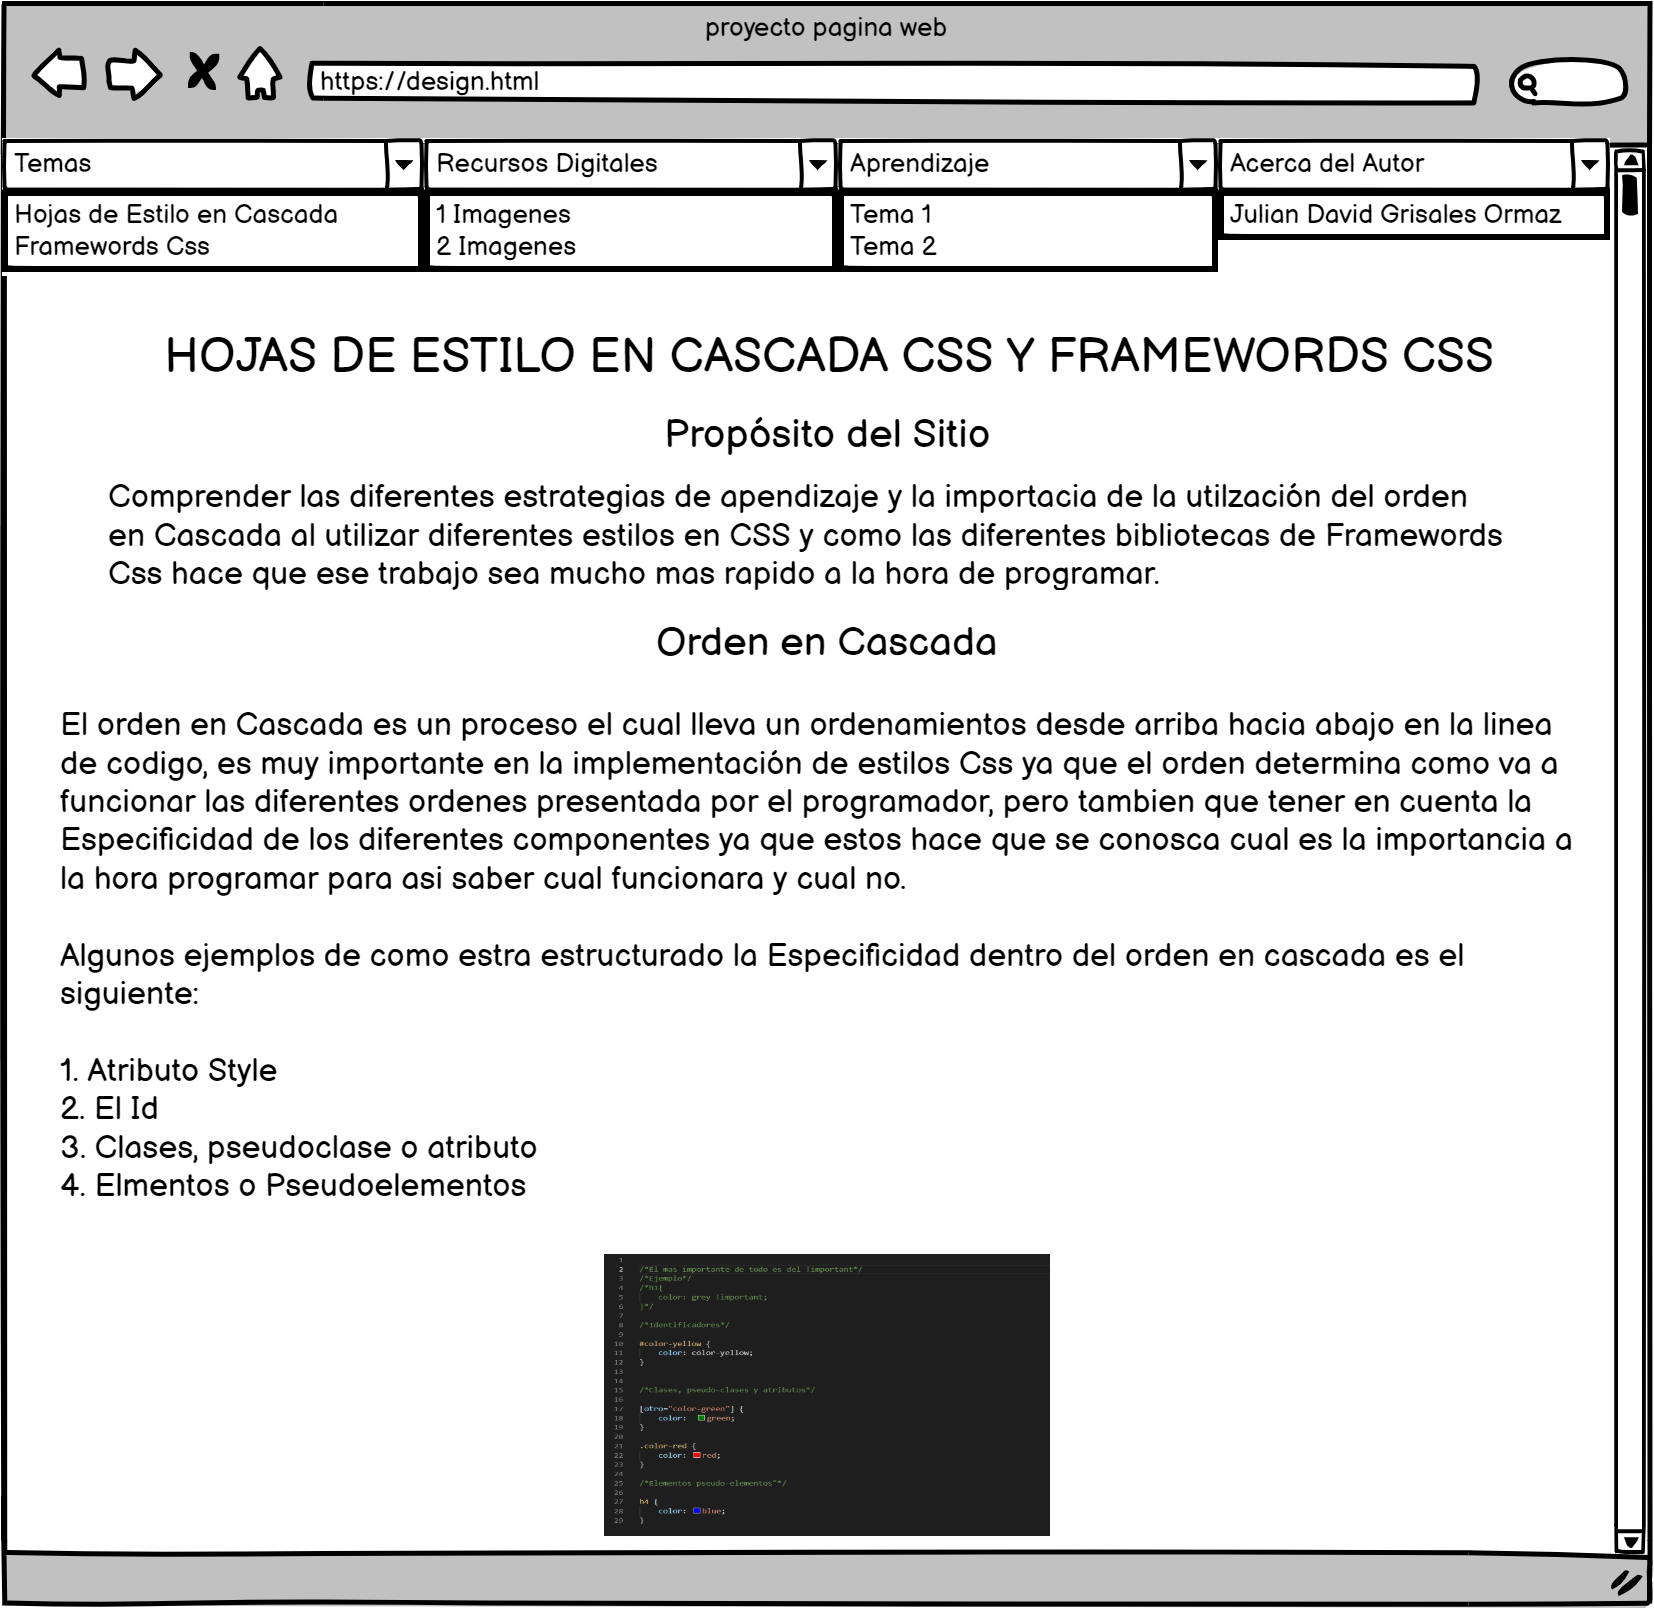
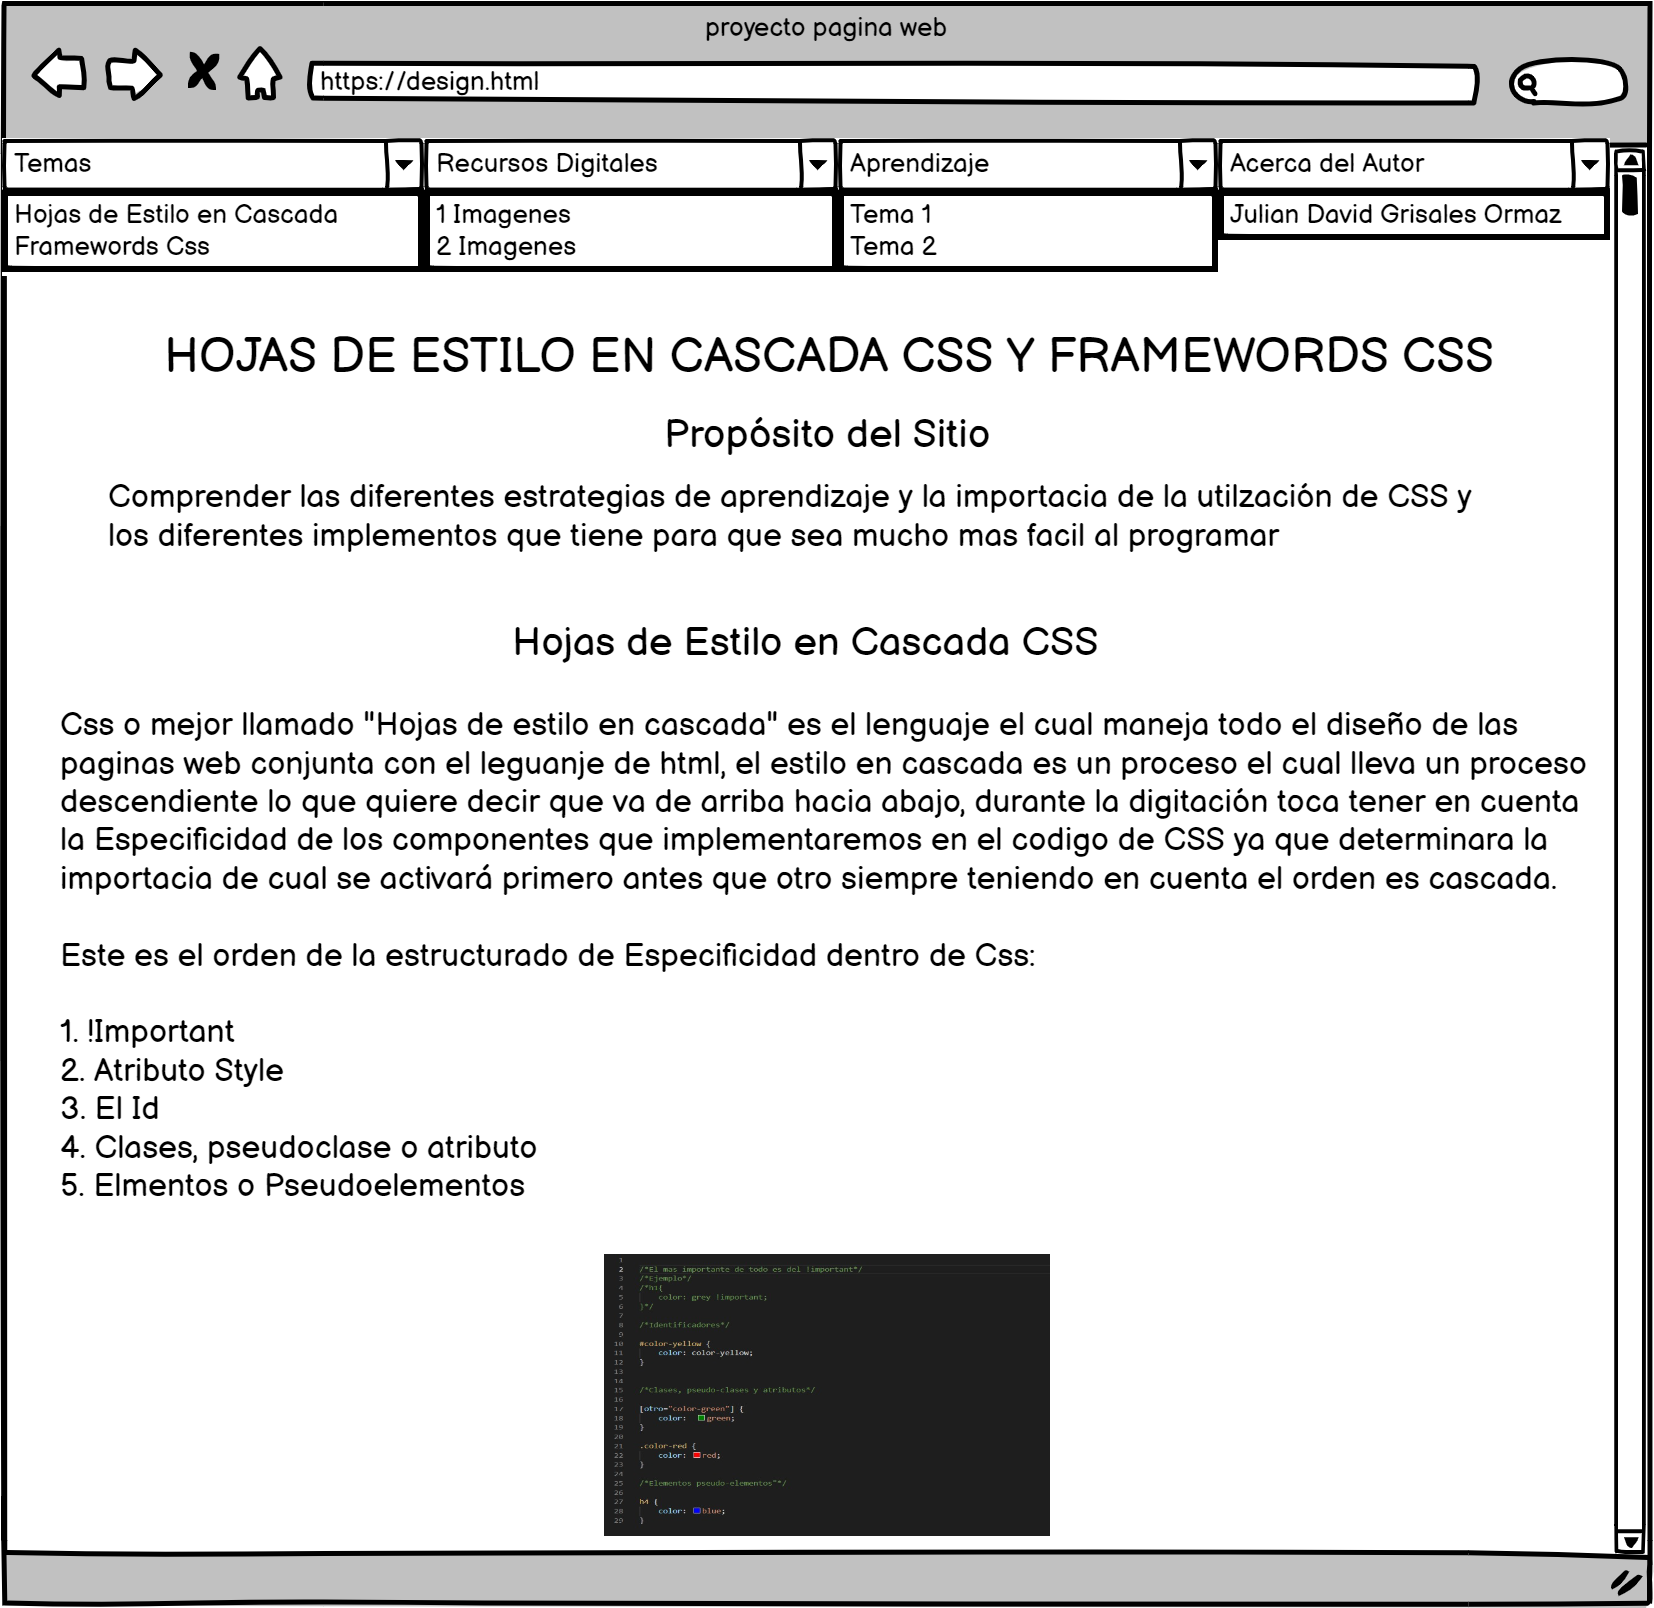
Fase 2
Modificación 1.2
Cambios en la Hoja en cascada Css y Framework SS

Changed region(s): [[0.0308, 0.4353, 0.9559, 0.5597], [0.0617, 0.2799, 0.925, 0.4042], [0.0308, 0.5908, 0.8634, 0.7463]]

diff --git a/Fase 2/design.html b/Fase 2/design.html
@@ -16,7 +16,7 @@
         <li>Inicio</li>
         <li>Temas
             <ul>
-                <li>Hojas de Estilo en Cascada</li>
+                <li>Hojas de Estilo en Cascada CSS</li>
                 <li>Frameworks CSS</li>
             </ul>
         </li>
@@ -36,23 +36,26 @@
             <h3>Julian Davidad Grisales Ormaza</h3>
         </li>
     </nav> 
-
     <section>
         <h2>Propósito del sitio</h2>
         <p>
-            Comprender las diferentes estrategias de apendizaje y la importacia de la utilzación del orden en Cascada al utilizar diferentes
-            estilos en CSS y como las diferentes bibliotecas de Framewords Css hace que ese trabajo sea mucho mas rapido a la hora 
-            de programar.
+            Comprender las diferentes estrategias de aprendizaje y la importacia de la utilzación de CSS y los diferentes implementos que 
+            tiene para que sea mucho mas facil al programar.
+            
+
         </p>
         <article>
-            <h3>Orden en Cascada</h3>
+            <P>
+            <h3>Hojas de Estilo en Cascada CSS</h3>
             <p>
-                El orden en Cascada es un proceso el cual lleva un ordenamientos desde arriba hacia abajo en la linea de codigo, es muy 
-                importante en la implementación de estilos Css ya que el orden determina como va a funcionar las diferentes ordenes 
-                presentada por el programador, pero tambien que tener en cuenta la <b>Especificidad</b> de los diferentes componentes
-                ya que estos hace que se conosca cual es la importancia a la hora programar para asi saber cual funcionara y cual no.
-                Algunos ejemplos de como estra estructurado la Especificidad dentro del orden en cascada es el siguiente:
+                Css o mejor llamado "Hojas de estilo en cascada" es el lenguaje el cual maneja todo el diseño de las paginas web conjunta con
+                el leguanje de html, el estilo en cascada es un proceso el cual lleva un proceso descendiente lo que quiere decir que va de 
+                arriba hacia abajo, durante la digitación toca tener en cuenta la <b>Especificidad</b> de los componentes que implementaremos 
+                en el codigo de CSS ya que determinara la importacia de cual se activará primero antes que otro siempre teniendo en cuenta el
+                orden es cascada.
+                Este es el orden de la estructurado de <b>Especificidad</b> dentro de Css:
                 <ol>
+                    <li>!Important</li>
                     <li>Atributo Style</li>
                     <li>El Id</li>
                     <li>Clases, pseudoclase o atributos</li>
@@ -66,11 +69,11 @@
         <article>
             <h3>Framework CSS</h3>
             <p>
-                Un Framework de Css es una biblioteca de diferentes estilos ya diseñados los cuales pueden ser implementados en los diferentes
-                sitios web que estemos haciendo, es facil agregarlos y la funcionalidad de cada uno es muy amplia pero eso quiere decir que 
-                puede verse como cualquier pagina que tambien tenga implementado el mismo frameword, al no aprovechar completamente la libreria
-                seleccionada hace que nuestra pagina web quede muy pesada lo cual colleva a posibles demorar al abrir el archivo. 
-                Algunos de los diferentes Framework en CSS son:
+                Un Framework de Css son bibliotecas web que tiene diferentes estilos ya diseñados los cuales pueden ser implementados en los diferentes
+                sitios web que vayamos a desarrollar, la funcionalidad de cada uno es muy amplia pero tambien quiere decir que es muy utilizada
+                por ende las paginas web con la misma librerias se pareceran, la falta de aprovechamiento completamento de la libreria seleccionada
+                hace que nuestra pagina web quede muy pesada lo cual conlleva a posibles demoras al abrir el archivo. 
+                Algunos Framework en CSS son:
                 <ol>
                     <li>960 Grid System</li>
                     <li>Blueprint Css</li>
@@ -93,7 +96,7 @@
     <footer>
         <h4>Mi correo electronico es: jdgrisaleso@unadvirtual.edu.com</h4>
         <p>Mi skype es el siguiente: julian-56-gm</p>
-        <p>20/09/2021</p>
+        <p>25/09/2021</p>
         <h4>Copyrihgt - Todos Los derechos reservados</h4>
     </footer>
     <a href="../index.html">Ir a la pagina principal</a>
